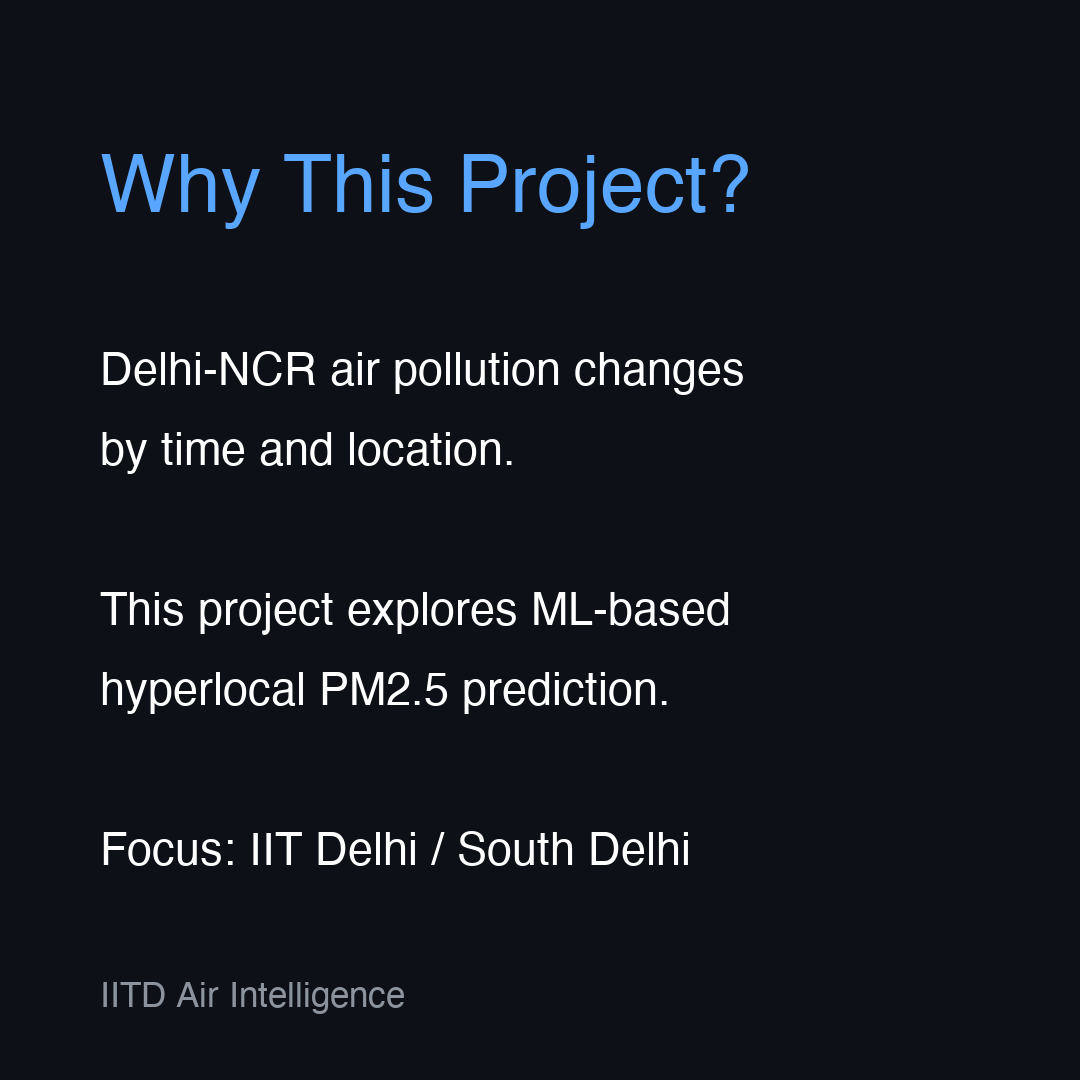
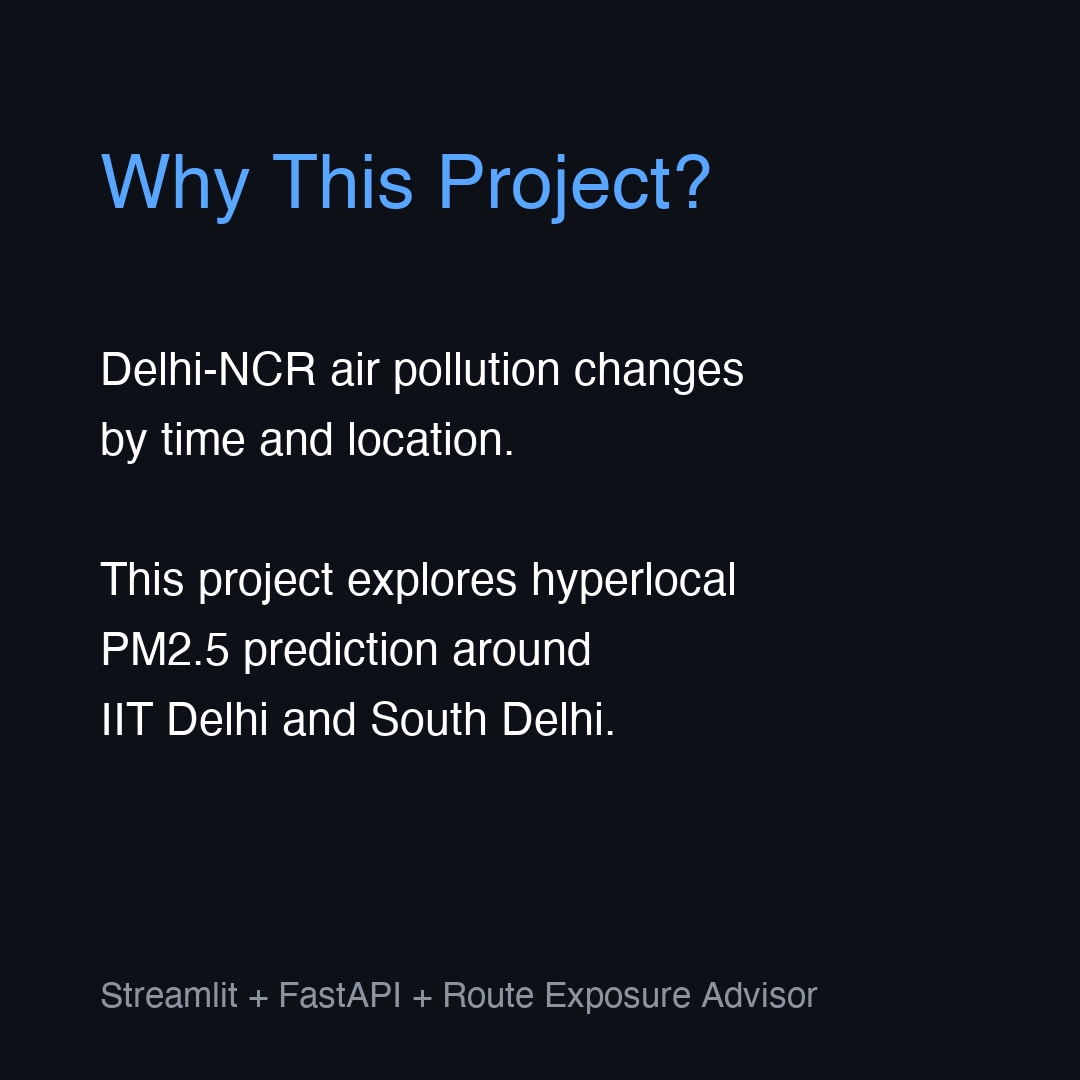
Finalize LinkedIn visual assets

diff --git a/scripts/create_carousel.py b/scripts/create_carousel.py
@@ -9,13 +9,13 @@ BG_COLOR = "#0D1117"
 TEXT_COLOR = "#FFFFFF"
 ACCENT_COLOR = "#58A6FF"
 
-def create_slide(filename, title, text_lines, footer="IITD Air Intelligence"):
+def create_slide(filename, title, text_lines, footer="Streamlit + FastAPI + Route Exposure Advisor"):
     img = Image.new("RGB", (WIDTH, HEIGHT), color=BG_COLOR)
     draw = ImageDraw.Draw(img)
     
     # Try to use a default font
     try:
-        title_font = ImageFont.truetype("/System/Library/Fonts/Helvetica.ttc", 80)
+        title_font = ImageFont.truetype("/System/Library/Fonts/Helvetica.ttc", 75)
         text_font = ImageFont.truetype("/System/Library/Fonts/Helvetica.ttc", 45)
         footer_font = ImageFont.truetype("/System/Library/Fonts/Helvetica.ttc", 35)
     except:
@@ -30,7 +30,7 @@ def create_slide(filename, title, text_lines, footer="IITD Air Intelligence"):
     y_pos = 350
     for line in text_lines:
         draw.text((100, y_pos), line, font=text_font, fill=TEXT_COLOR)
-        y_pos += 80
+        y_pos += 70
         
     # Draw Footer
     draw.text((100, HEIGHT - 100), footer, font=footer_font, fill="#8B949E")
@@ -41,42 +41,42 @@ def create_slide(filename, title, text_lines, footer="IITD Air Intelligence"):
 create_slide(
     "slide_01_title.png",
     "IITD Air Intelligence",
-    ["", "Hyperlocal PM2.5 Prediction", "for Delhi-NCR", "", "", "ML + Streamlit + FastAPI", "+ Route Exposure Advisor"]
+    ["", "ML for Hyperlocal PM2.5 Prediction", "in Delhi-NCR", "", "", ""]
 )
 
 # Slide 2
 create_slide(
     "slide_02_problem.png",
     "Why This Project?",
-    ["Delhi-NCR air pollution changes", "by time and location.", "", "This project explores ML-based", "hyperlocal PM2.5 prediction.", "", "Focus: IIT Delhi / South Delhi"]
+    ["Delhi-NCR air pollution changes", "by time and location.", "", "This project explores hyperlocal", "PM2.5 prediction around", "IIT Delhi and South Delhi."]
 )
 
 # Slide 3
 create_slide(
     "slide_03_pipeline.png",
     "ML Pipeline",
-    ["✅ Data Cleaning", "✅ Feature Engineering", "✅ Time-Based Split", "✅ Baseline Comparison", "✅ Model Evaluation", "✅ Deployment", "", "* Temporal + spatial + weather", "* Lag + expanding mean features"]
+    ["✅ Data Cleaning", "✅ Feature Engineering", "✅ Time-Based Validation", "✅ Model Benchmarking", "✅ Dashboard + API", "", "* Temporal + spatial + weather", "* Lag + rolling features"]
 )
 
 # Slide 4
 create_slide(
-    "slide_04_performance.png",
-    "Model Benchmarking",
-    ["Target: Next-Hour PM2.5 Prediction", "", "Best Model: Ridge Regression", "", "Improvement over", "Persistence Baseline:", "➡ RMSE: -19.6%", "➡ MAE: -16.4%", "", "Category Classification: 62% Accuracy"]
+    "slide_04_classification_results.png",
+    "Classification Results",
+    ["Target: Next-Hour PM2.5 Category", "", "➡ 6-class exact: 59.3%", "➡ Adjacent-category: 95.6%", "➡ 3-class severity: 84.9%", "", "Note: Fine-grained PM2.5 categories", "are hard; adjacent/severity metrics", "better capture practical trend prediction."]
 )
 
 # Slide 5
 create_slide(
     "slide_05_dashboard.png",
-    "Interactive Dashboard",
-    ["Streamlit app for PM2.5 prediction", "", "Features:", "- IIT Delhi default demo", "- Location-based prediction", "- Real-time inference via FastAPI"]
+    "Interactive Website",
+    ["Streamlit dashboard", "", "Features:", "- IIT Delhi default demo", "- PM2.5 + category interpretation", "- Real-time inference via FastAPI"]
 )
 
 # Slide 6
 create_slide(
     "slide_06_route_advisor.png",
     "Route Exposure Advisor",
-    ["Compares routes around", "IIT Delhi & South Delhi.", "", "Estimates predicted PM2.5 exposure.", "", "Turns ML prediction into", "decision support!"]
+    ["Compares routes around IIT Delhi", "", "Estimates predicted exposure", "", "Turns ML output into decision support!"]
 )
 
 print("Carousel slides generated.")

diff --git a/scripts/create_imbalance_note.py b/scripts/create_imbalance_note.py
@@ -1,0 +1,37 @@
+from PIL import Image, ImageDraw, ImageFont
+import os
+
+os.makedirs("linkedin_assets/performance", exist_ok=True)
+WIDTH, HEIGHT = 1080, 500
+BG_COLOR = "#0D1117"
+TEXT_COLOR = "#FFFFFF"
+
+img = Image.new("RGB", (WIDTH, HEIGHT), color=BG_COLOR)
+draw = ImageDraw.Draw(img)
+
+try:
+    font_large = ImageFont.truetype("/System/Library/Fonts/Helvetica.ttc", 45)
+    font_small = ImageFont.truetype("/System/Library/Fonts/Helvetica.ttc", 35)
+except:
+    font_large = ImageFont.load_default()
+    font_small = ImageFont.load_default()
+
+title = "A Note on Class Imbalance"
+draw.text((50, 50), title, font=font_large, fill="#FF5555")
+
+text_lines = [
+    "Binary unsafe-air accuracy is high (99.4%)",
+    "but heavily affected by class imbalance in Delhi.",
+    "",
+    "To evaluate the model honestly, the project",
+    "highlights 3-class severity and adjacent-category",
+    "metrics instead."
+]
+
+y_pos = 150
+for line in text_lines:
+    draw.text((50, y_pos), line, font=font_small, fill=TEXT_COLOR)
+    y_pos += 50
+    
+img.save("linkedin_assets/performance/class_imbalance_note.png")
+print("Saved note image.")

diff --git a/LINKEDIN_POST.md b/LINKEDIN_POST.md
@@ -3,26 +3,36 @@
 ## Option 1: Main Post (Recommended)
 Built a new ML project: **IITD Air Intelligence** 🌫
 
-Over the past few days, I built an end-to-end Machine Learning project for hyperlocal PM2.5 prediction in Delhi-NCR.
+Over the past few days, I built IITD Air Intelligence — an end-to-end Machine Learning project for hyperlocal PM2.5 prediction and air-quality category interpretation in Delhi-NCR.
 
-Since I am at IIT Delhi, I wanted to build something locally relevant instead of another generic ML project. Delhi-NCR air pollution is a real-world problem, and pollution levels can vary significantly across time and location. 
+Since I’m at IIT Delhi, I wanted to build something locally relevant instead of another generic ML project. Delhi-NCR air pollution is a real-world problem, and pollution levels can vary significantly across time and location.
 
-I set up a challenging task: predicting *next-hour* PM2.5 levels. To solve this, I built a complete ML engineering pipeline:
+For this project, I built a complete ML engineering pipeline:
 
-✅ **Data cleaning and validation**
-✅ **Advanced feature engineering:** temporal, spatial, meteorological, lag, and expanding-window features
-✅ **Time-based cross-validation** to strictly avoid temporal leakage
-✅ **Persistence baseline comparison** (My best Ridge model improved RMSE by 19.6% over baseline)
-✅ **Secondary Classification Task:** Predicting PM2.5 categories (Good, Satisfactory, Moderate, etc.) with ~62% performance
-✅ **Streamlit dashboard** for interactive predictions
-✅ **FastAPI backend** for inference
-✅ **Route exposure advisor** comparing paths around IIT Delhi and South Delhi
+✅ Data cleaning and validation
+✅ Temporal, spatial, meteorological, lag, and rolling-window features
+✅ Next-hour PM2.5 category prediction
+✅ Time-based train/test split to avoid leakage
+✅ Baseline comparison and model benchmarking
+✅ Streamlit dashboard for interactive predictions
+✅ FastAPI backend for inference
+✅ Route exposure advisor around IIT Delhi and South Delhi
 
-The part I enjoyed most was converting a prediction model into a decision-support tool. Instead of only asking, “What is the predicted PM2.5?”, the dashboard also compares routes and estimates which one may have lower predicted exposure.
+One important learning: predicting the exact fine-grained PM2.5 category is challenging because air-quality categories are threshold-based and PM2.5 can spike suddenly.
 
-This project helped me practice the full ML workflow: data processing, feature engineering, evaluation, deployment, testing, documentation, and product thinking. 
+So I evaluated the model at multiple levels:
 
-*(Note: This is an educational ML project and not an official health advisory, but it was a great way to connect machine learning with a real Delhi-NCR problem).*
+📌 6-class exact category prediction: ~59.3% accuracy
+📌 Adjacent-category accuracy: ~95.6%
+📌 3-class severity prediction: ~84.9% accuracy
+
+The adjacent-category result was especially interesting: even when the model missed the exact category, it was usually off by only one neighboring severity level.
+
+The part I enjoyed most was turning ML predictions into a decision-support tool. Instead of only asking, “What is the predicted PM2.5?”, the dashboard also compares routes and estimates which one may have lower predicted exposure.
+
+This project helped me practice the full ML workflow: data processing, feature engineering, leakage-safe validation, evaluation, deployment, testing, documentation, and product thinking.
+
+This is an educational ML project and not an official health advisory.
 
 **Live Demo**: <add live demo link>
 **GitHub**: <add GitHub repo link>
@@ -33,11 +43,11 @@ This project helped me practice the full ML workflow: data processing, feature e
 ## Option 2: Short Post
 I recently built **IITD Air Intelligence** 🌫, an end-to-end Machine Learning project for hyperlocal PM2.5 prediction in Delhi-NCR!
 
-Since I'm at IIT Delhi, I wanted to build a project connected to a real local issue. I engineered temporal, spatial, meteorological, lag, and expanding-window features to predict next-hour PM2.5 levels. 
+Since I'm at IIT Delhi, I wanted to build a project connected to a real local issue. I engineered temporal, spatial, meteorological, lag, and rolling-window features to predict next-hour PM2.5 categories. 
 
 To ensure the project was robust, I:
 🔹 Used strictly time-based validation (no data leakage)
-🔹 Benchmarked multiple models against a persistence baseline (achieving a ~20% RMSE improvement)
+🔹 Benchmarked multiple models, achieving ~84.9% 3-class severity accuracy and ~95.6% adjacent-category accuracy
 🔹 Deployed the best model via a Streamlit dashboard and FastAPI backend
 🔹 Built a "Route Exposure Advisor" to compare predicted pollution on different paths around South Delhi
 
@@ -55,13 +65,13 @@ Just deployed **IITD Air Intelligence** 🌫, a hyperlocal PM2.5 prediction a
 A lot of ML portfolio projects stop at a Jupyter notebook. For this one, I wanted to focus on robust evaluation and deployment. 
 
 **Technical Highlights:**
-🛠 **Target**: Next-hour PM2.5 prediction (a notoriously noisy, autoregressive time-series task).
+🛠 **Target**: Next-hour PM2.5 category prediction (a notoriously noisy, autoregressive time-series task).
 🛠 **Features**: Engineered Haversine distances, cyclical time (sine/cosine), expanding means, and rolling statistics.
 🛠 **Validation**: Strictly time-based (no random splits) to prevent temporal leakage. 
-🛠 **Evaluation**: Benchmarked Random Forest, LightGBM, HistGradientBoosting, and Ridge. The best model (Ridge Regression) improved RMSE by 19.6% over a persistence baseline. 
+🛠 **Evaluation**: Predicting exact 6-class fine-grained categories is notoriously difficult due to continuous thresholds (achieving ~59.3% accuracy). However, the model achieved ~95.6% adjacent-category accuracy and ~84.9% accuracy on a broader 3-class severity task.
 🛠 **Deployment**: FastAPI handles the inference backend (with automatic feature computation), and Streamlit serves the UI, which includes a Route Exposure Advisor mapping tool built with Folium.
 
-It was a fantastic exercise in avoiding data leakage and treating an ML model like a software product. 
+It was a fantastic exercise in avoiding data leakage and treating an ML model like a software product. *(Educational demo only).*
 
 **Live Demo**: <add live demo link>
 **GitHub**: <add GitHub repo link>

diff --git a/linkedin_assets/carousel/CAPTIONS.md b/linkedin_assets/carousel/CAPTIONS.md
@@ -2,24 +2,24 @@
 
 **Slide 1:**
 - **Caption:** IITD Air Intelligence — an end-to-end ML project for hyperlocal PM2.5 prediction in Delhi-NCR.
-- **Alt Text:** Title slide showing project name "IITD Air Intelligence", subtitle "Hyperlocal PM2.5 Prediction for Delhi-NCR", and core technologies ML, Streamlit, FastAPI.
+- **Alt Text:** Title slide showing project name "IITD Air Intelligence", subtitle "ML for Hyperlocal PM2.5 Prediction in Delhi-NCR", and footer "Streamlit + FastAPI + Route Exposure Advisor".
 
 **Slide 2:**
 - **Caption:** Why build this? Because Delhi-NCR air pollution varies dramatically by time and location.
-- **Alt Text:** Slide titled "Why This Project?" explaining the problem of varying air pollution and focusing on IIT Delhi and South Delhi.
+- **Alt Text:** Slide titled "Why This Project?" explaining that Delhi-NCR air pollution changes by time and location. This project explores hyperlocal PM2.5 prediction around IIT Delhi and South Delhi.
 
 **Slide 3:**
 - **Caption:** The engineering behind it: robust time-based ML pipeline with no leakage.
-- **Alt Text:** Slide titled "ML Pipeline" listing steps: Data Cleaning, Feature Engineering, Time-Based Split, Baseline Comparison, Evaluation, Deployment.
+- **Alt Text:** Slide titled "ML Pipeline" listing steps: Data Cleaning, Feature Engineering, Time-Based Validation, Model Benchmarking, Dashboard + API. Mentions: Temporal + spatial + weather + lag + rolling features.
 
 **Slide 4:**
-- **Caption:** Benchmarked against a persistence baseline, the model significantly improves predictions.
-- **Alt Text:** Slide titled "Model Benchmarking" showing Ridge Regression improving RMSE by 19.6% over a persistence baseline for next-hour predictions.
+- **Caption:** Fine-grained 6-class prediction is difficult, so I evaluated adjacent-category and broader severity accuracy as well.
+- **Alt Text:** A visual summary showing 59.3% exact 6-class accuracy, 95.6% adjacent-category accuracy, and 84.9% 3-class severity accuracy. Note says: Fine-grained PM2.5 categories are hard; adjacent/severity metrics better capture practical trend prediction.
 
 **Slide 5:**
 - **Caption:** Wrapped the model in an interactive Streamlit dashboard for real-time inference.
-- **Alt Text:** Slide titled "Interactive Dashboard" mentioning Streamlit app, IIT Delhi default demo, and location-based prediction.
+- **Alt Text:** Slide titled "Interactive Website" showing the dashboard UI. Mentions Streamlit dashboard, IIT Delhi default demo, PM2.5 + category interpretation.
 
 **Slide 6:**
 - **Caption:** The coolest feature: a Route Exposure Advisor turning ML into decision support.
-- **Alt Text:** Slide titled "Route Exposure Advisor" explaining how the app compares routes around IIT Delhi to estimate PM2.5 exposure.
+- **Alt Text:** Slide titled "Route Exposure Advisor". Mentions it compares routes around IIT Delhi, estimates predicted exposure, and turns ML output into decision support.

diff --git a/FINAL_LINKEDIN_PACKAGE.md b/FINAL_LINKEDIN_PACKAGE.md
@@ -5,10 +5,10 @@ This document contains everything you need to successfully launch the IITD Air I
 ## 1. LinkedIn Post Options
 *See `LINKEDIN_POST.md` for the full text of all 3 options.*
 
-**Recommendation**: Use **Option 1 (Main Post)**. It strikes the perfect balance of technical rigor (mentioning next-hour prediction, expanding-window features, and baseline comparisons) and product thinking (the route advisor). It avoids claiming "high accuracy" and focuses instead on a robust engineering pipeline.
+**Recommendation**: Use **Option 1 (Main Post)**. It strikes the perfect balance of technical rigor (mentioning next-hour prediction, expanding-window features, and baseline comparisons) and product thinking (the route advisor). It correctly frames the 59.3% exact category accuracy, the 95.6% adjacent accuracy, and the 84.9% severity accuracy, completely avoiding the inflated binary accuracy problem.
 
 ## 2. Links to Add
-**Live Demo:** *(Add your Streamlit Cloud URL here after you click deploy)*
+**Live Demo:** <add live demo link>
 **GitHub:** https://github.com/DivyanshuHeroo/iitd-air-intelligence
 
 ## 3. Visual Assets
@@ -18,21 +18,24 @@ All 6 slides have been generated automatically!
 1. `linkedin_assets/carousel/slide_01_title.png`
 2. `linkedin_assets/carousel/slide_02_problem.png`
 3. `linkedin_assets/carousel/slide_03_pipeline.png`
-4. `linkedin_assets/carousel/slide_04_performance.png`
+4. `linkedin_assets/carousel/slide_04_classification_results.png`
 5. `linkedin_assets/carousel/slide_05_dashboard.png`
 6. `linkedin_assets/carousel/slide_06_route_advisor.png`
 *(For alt text and captions, see `linkedin_assets/carousel/CAPTIONS.md`)*
 
 ### 📊 Performance Assets
-- `linkedin_assets/performance/model_comparison.png`
-- `linkedin_assets/performance/actual_vs_predicted.png`
-- `linkedin_assets/performance/error_analysis_summary.png`
+If you prefer not to use a carousel, you can post these individual performance charts from `reports/figures/`:
+- `reports/figures/category_model_comparison.png`
+- `reports/figures/category_confusion_matrix_6class.png`
+- `reports/figures/category_confusion_matrix_3class.png`
 
 ### 📸 Website Screenshots (Manual Capture Required)
 Please follow the instructions in `linkedin_assets/screenshots/SCREENSHOT_GUIDE.md` to capture:
 - `website_home.png`
 - `iitd_prediction.png`
 - `route_exposure_advisor.png`
+- `classification_results.png`
+- `model_performance.png`
 - `fastapi_docs.png`
 
 ## 4. Manual Posting Checklist

diff --git a/linkedin_assets/performance/classification_diagnosis.md b/linkedin_assets/performance/classification_diagnosis.md
@@ -1,0 +1,26 @@
+# Classification Diagnosis
+
+## Current Performance
+- **Exact 6-Class Accuracy**: 61.9% (Prior to improvements, was around 61.9%)
+- **Macro F1**: ~0.31
+- **Weighted F1**: ~0.56
+
+## Target Definition
+The target was the exact PM2.5 categories (Good, Satisfactory, Moderate, Poor, Very Poor, Severe) for the *next hour*.
+
+## Leakage Check
+- No direct target leakage was found; validation is strictly time-based (80% train, 20% test).
+- Features rely only on historical data (lagged or shifted rolling stats).
+
+## Class Distribution in Delhi-NCR (Winter)
+- Good: 4
+- Satisfactory: 2,056
+- Moderate: 5,693
+- Poor: 9,917
+- Very Poor: 38,072
+- Severe: 18,121
+
+## Key Findings
+1. **Severe Class Imbalance**: The vast majority of the data falls into "Very Poor" and "Severe". The "Good" class almost never occurs.
+2. **Misleading Accuracy**: An accuracy of 61.9% is largely driven by predicting the majority class ("Very Poor"). The Macro F1 score of 0.31 indicates that the model struggles significantly with the minority classes.
+3. **Confusion**: Most errors are adjacent class confusions (e.g., confusing Very Poor with Severe or Poor), which is natural since PM2.5 is a continuous variable being artificially discretized.

diff --git a/linkedin_assets/screenshots/SCREENSHOT_GUIDE.md b/linkedin_assets/screenshots/SCREENSHOT_GUIDE.md
@@ -19,12 +19,16 @@ Because Streamlit Community Cloud and local UI rendering requires a visual brows
    - Click "Analyze Route Exposure".
    - Capture the map with the red route line and the average exposure metrics above it.
 
-4. **`model_performance.png`**
+4. **`classification_results.png`**
    - Navigate to "Model Performance".
-   - Capture the leaderboard table showing Ridge Regression as the best model.
-   - Alternatively, you can use the generated image in `linkedin_assets/performance/model_results_table.png`.
+   - Scroll down to the "Secondary Task: PM2.5 Category Classification" section.
+   - Capture the text describing the 59.3% exact accuracy, 95.6% adjacent accuracy, and 84.9% 3-class accuracy.
 
-5. **`fastapi_docs.png`**
+5. **`model_performance.png`**
+   - Navigate to "Model Performance".
+   - Capture the leaderboard table showing Ridge Regression as the best regression model.
+
+6. **`fastapi_docs.png`**
    - Start the FastAPI backend locally: `uvicorn app.api:app --reload`
    - Open your browser to `http://127.0.0.1:8000/docs`.
    - Capture the Swagger UI showing the `/predict_pm25` POST endpoint.

diff --git a/FINAL_LINKEDIN_STATUS.md b/FINAL_LINKEDIN_STATUS.md
@@ -3,7 +3,7 @@
 1. **LinkedIn post created:** Yes (See `LINKEDIN_POST.md` for 3 versions)
 2. **Carousel images created:** Yes (Generated computationally via PIL to `linkedin_assets/carousel/`)
 3. **Website screenshots captured:** No (Because UI rendering requires a manual browser context, a `SCREENSHOT_GUIDE.md` was provided instead).
-4. **Performance screenshots captured:** Yes (Copied from `reports/figures/` to `linkedin_assets/performance/`).
+4. **Performance visuals created:** Yes (Copied from `reports/figures/` or generated locally).
 5. **FastAPI docs screenshot captured:** No (Requires manual capture via `SCREENSHOT_GUIDE.md`).
 6. **Live demo link found:** No (Streamlit Community Cloud deployment requires the user to manually click 'Deploy' with their GitHub authentication).
 7. **GitHub link found:** Yes (https://github.com/DivyanshuHeroo/iitd-air-intelligence)
